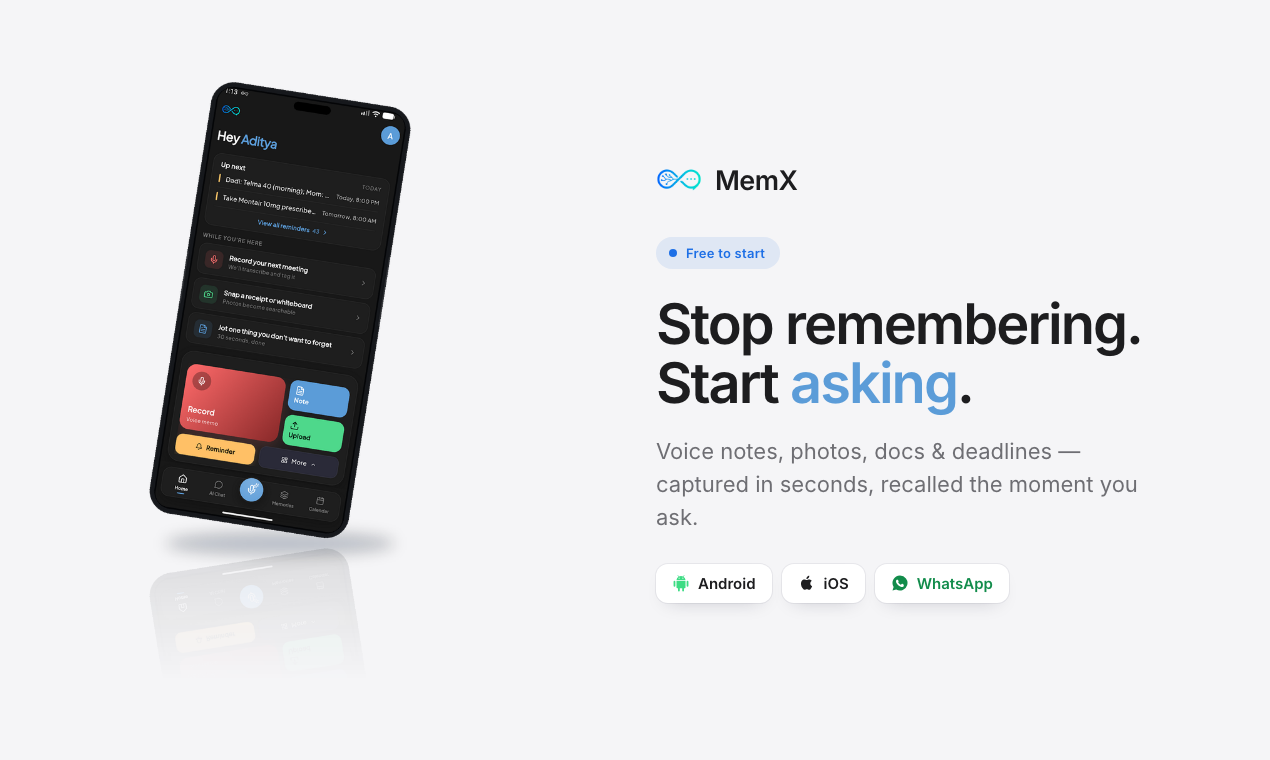
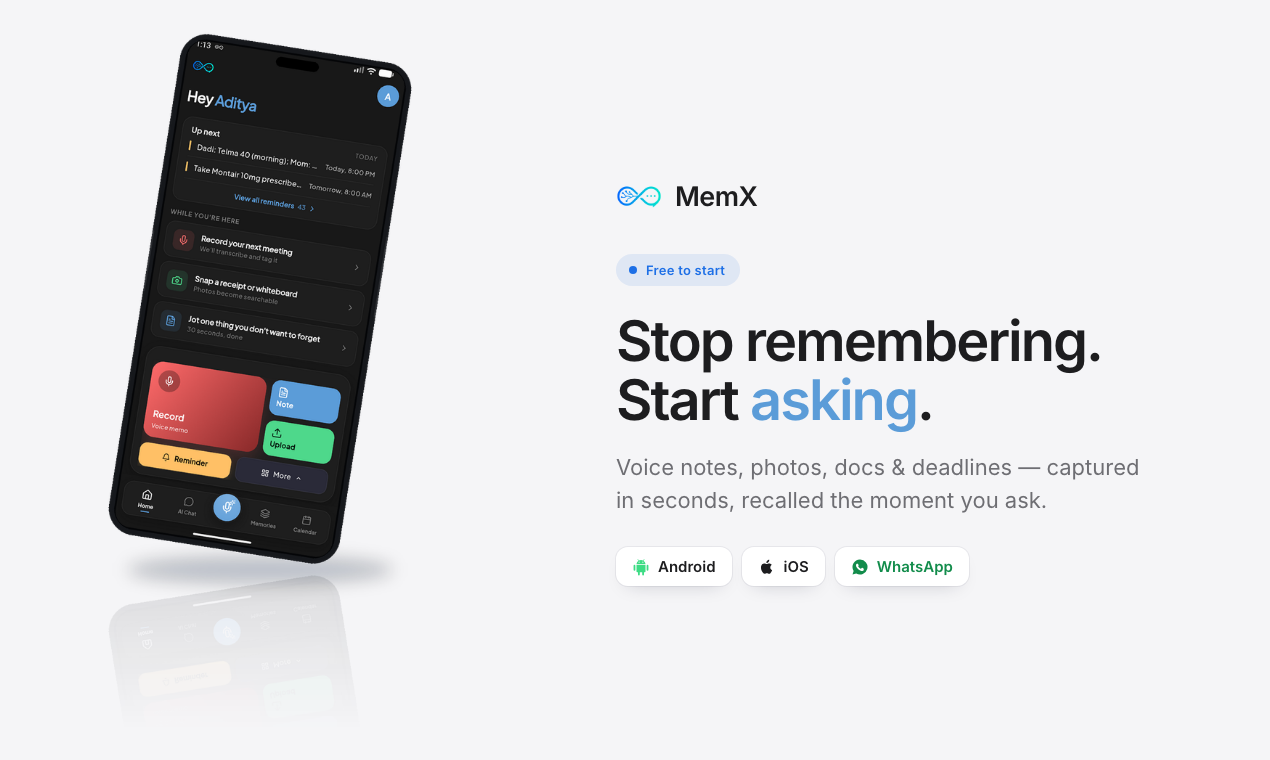
Card 8: enlarge CTA phone (720px, narrower media column) so it isn't lost in whitespace

diff --git a/index.html b/index.html
@@ -296,9 +296,9 @@ body.render .exportframe > .stage { transform:none !important; width:1270px; hei
 .acfoot { display:flex; align-items:center; gap:9px; margin-top:18px; font-size:13.5px; color:#8f95a0; }
 .acfoot .k { color:#5B9CD8; }
 /* CTA (download) */
-.ctamedia { flex:0 0 auto; width:560px; display:flex; align-items:center; justify-content:center;
+.ctamedia { flex:0 0 auto; width:520px; display:flex; align-items:center; justify-content:center;
   position:relative; z-index:2; }
-.ctaphone { height:620px; width:auto; display:block; }
+.ctaphone { height:720px; width:auto; display:block; }
 .badges { display:flex; gap:10px; margin-top:30px; flex-wrap:wrap; }
 .badge { display:inline-flex; align-items:center; gap:8px; font-size:15px; font-weight:600; color:#1D1D1F;
   background:#fff; padding:10px 16px; border-radius:12px;

diff --git a/build.py b/build.py
@@ -87,9 +87,9 @@ body.render .exportframe > .stage { transform:none !important; width:1270px; hei
 .acfoot { display:flex; align-items:center; gap:9px; margin-top:18px; font-size:13.5px; color:#8f95a0; }
 .acfoot .k { color:#5B9CD8; }
 /* CTA (download) */
-.ctamedia { flex:0 0 auto; width:560px; display:flex; align-items:center; justify-content:center;
+.ctamedia { flex:0 0 auto; width:520px; display:flex; align-items:center; justify-content:center;
   position:relative; z-index:2; }
-.ctaphone { height:620px; width:auto; display:block; }
+.ctaphone { height:720px; width:auto; display:block; }
 .badges { display:flex; gap:10px; margin-top:30px; flex-wrap:wrap; }
 .badge { display:inline-flex; align-items:center; gap:8px; font-size:15px; font-weight:600; color:#1D1D1F;
   background:#fff; padding:10px 16px; border-radius:12px;